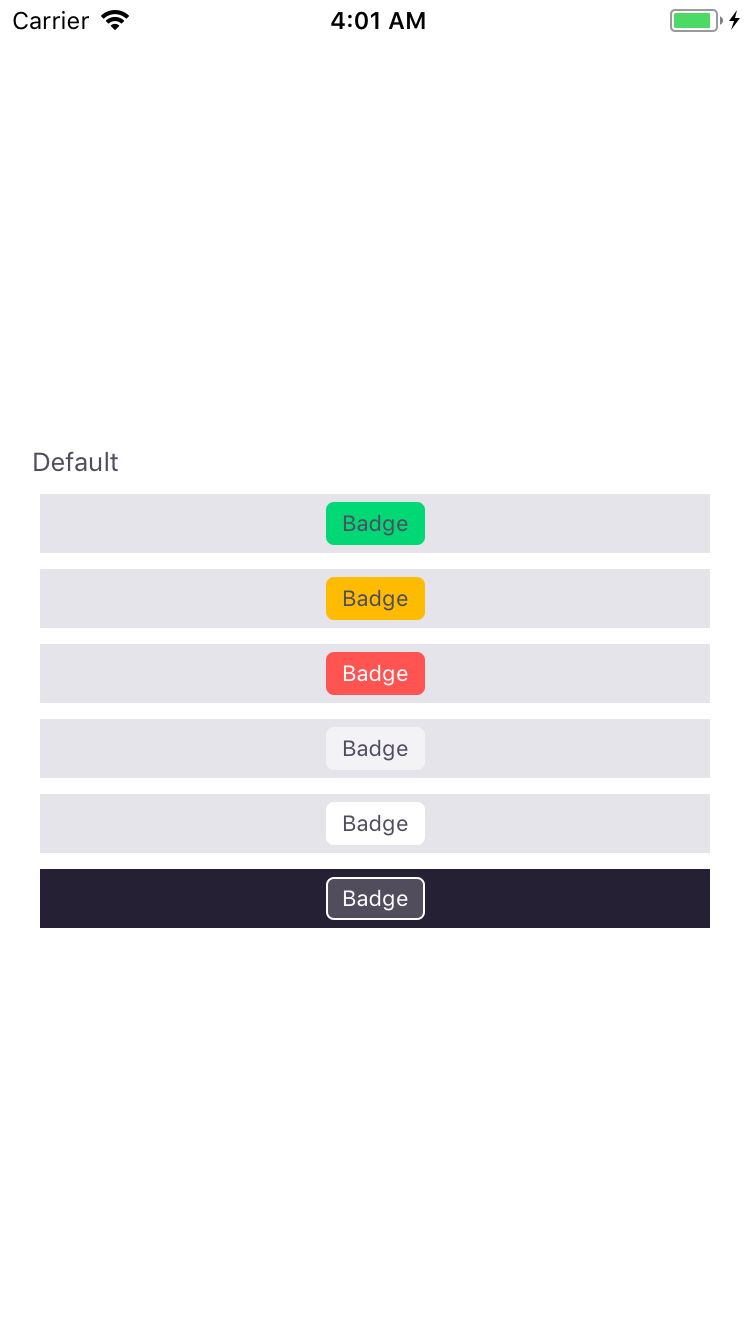
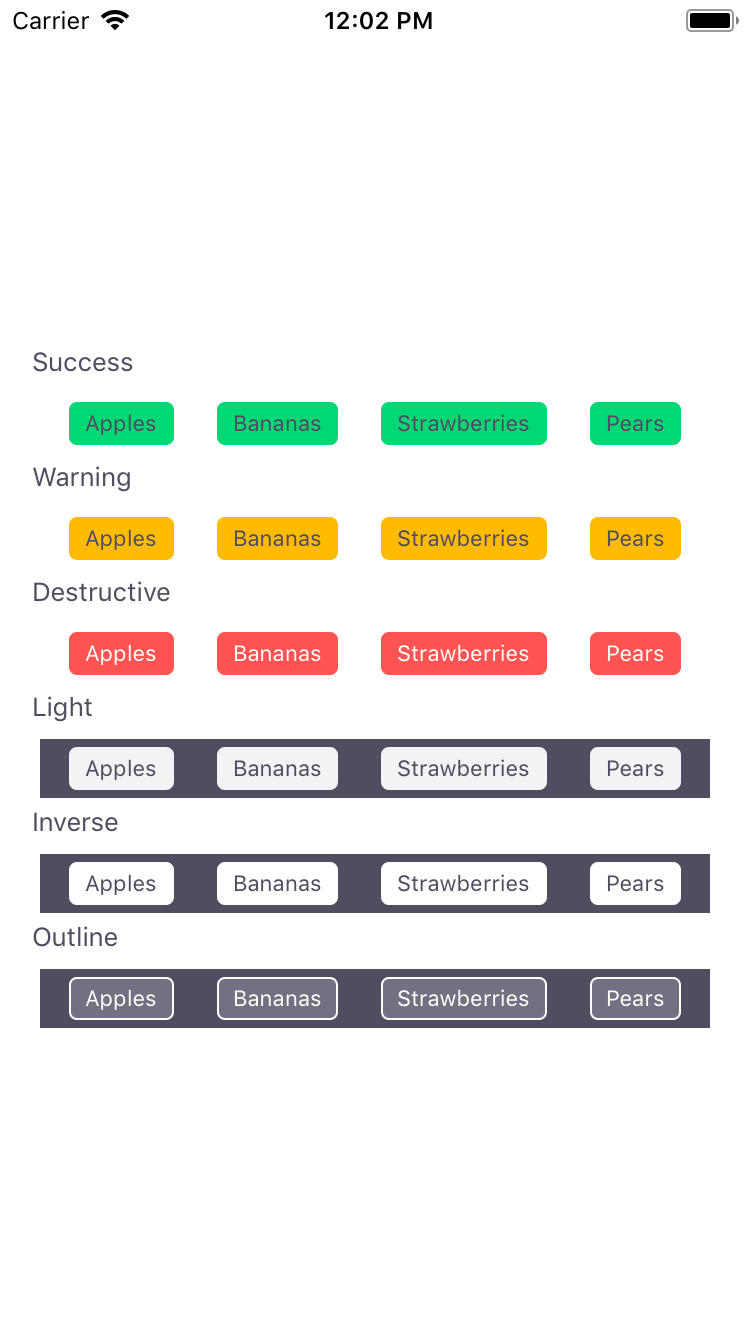
[no jira] Rename left/right in native badge to start/end

diff --git a/native/packages/react-native-bpk-component-badge/stories.js b/native/packages/react-native-bpk-component-badge/stories.js
@@ -22,11 +22,9 @@ import React from 'react';
 import { storiesOf } from '@storybook/react-native';
 import { View, StyleSheet } from 'react-native';
 import {
-  colorGray900,
-  colorGray100,
+  colorGray50,
+  colorGray700,
   spacingSm,
-  spacingXxl,
-  spacingBase,
 } from 'bpk-tokens/tokens/base.react.native';
 
 import BpkBadge, { BADGE_TYPES, BADGE_DOCKED_TYPES } from './index';
@@ -38,30 +36,39 @@ const style = StyleSheet.create({
     flexWrap: 'wrap',
   },
   badgeWrapper: {
-    backgroundColor: colorGray100,
     alignSelf: 'stretch',
+    justifyContent: 'space-around',
     margin: spacingSm,
     paddingBottom: spacingSm,
   },
-  badge: {
-    maxWidth: spacingBase + spacingXxl,
-  },
   center: {
+    flexDirection: 'row',
     padding: spacingSm,
     alignItems: 'center',
   },
-  left: {
+  start: {
+    backgroundColor: colorGray50,
     alignItems: 'flex-start',
   },
-  right: {
+  end: {
+    backgroundColor: colorGray50,
     alignItems: 'flex-end',
   },
+  light: {
+    backgroundColor: colorGray700,
+  },
   outline: {
-    backgroundColor: colorGray900,
+    backgroundColor: colorGray700,
+  },
+  inverse: {
+    backgroundColor: colorGray700,
   },
 });
 
+const capitalise = input => input.charAt(0).toUpperCase() + input.slice(1);
+
 const generateBadgeStory = (
+  contents: Array<string>,
   config: { docked?: $Keys<typeof BADGE_DOCKED_TYPES> } = {},
 ) => {
   const badgeWrapperStyle = [style.badgeWrapper];
@@ -71,13 +78,19 @@ const generateBadgeStory = (
     badgeWrapperStyle.push(style.center);
   }
   const badges = Object.keys(BADGE_TYPES).map(i => (
-    <View style={[badgeWrapperStyle, style[i]]} key={i}>
-      <BpkBadge
-        style={style.badge}
-        message="Badge"
-        docked={config.docked}
-        type={i}
-      />
+    <View key={i}>
+      <StorySubheading>{capitalise(i)}</StorySubheading>
+      <View style={[badgeWrapperStyle, style[i]]}>
+        {contents.map(content => (
+          <BpkBadge
+            key={content}
+            message={content}
+            docked={config.docked}
+            type={i}
+            style={style.badge}
+          />
+        ))}
+      </View>
     </View>
   ));
 
@@ -87,19 +100,16 @@ const generateBadgeStory = (
 storiesOf('BpkBadge', module)
   .add('docs:default', () => (
     <View>
-      <StorySubheading>Default</StorySubheading>
-      {generateBadgeStory()}
+      {generateBadgeStory(['Apples', 'Bananas', 'Strawberries', 'Pears'])}
     </View>
   ))
-  .add('docs:docked-left', () => (
+  .add('docs:docked-start', () => (
     <View>
-      <StorySubheading>Docked on the left</StorySubheading>
-      {generateBadgeStory({ docked: BADGE_DOCKED_TYPES.left })}
+      {generateBadgeStory(['Advert'], { docked: BADGE_DOCKED_TYPES.start })}
     </View>
   ))
-  .add('docs:docked-right', () => (
+  .add('docs:docked-end', () => (
     <View>
-      <StorySubheading>Docked on the right</StorySubheading>
-      {generateBadgeStory({ docked: BADGE_DOCKED_TYPES.right })}
+      {generateBadgeStory(['Advert'], { docked: BADGE_DOCKED_TYPES.end })}
     </View>
   ));

diff --git a/packages/bpk-docs/src/pages/NativeBadgePage/NativeBadgePage.js b/packages/bpk-docs/src/pages/NativeBadgePage/NativeBadgePage.js
@@ -20,11 +20,11 @@ import React from 'react';
 import readme from 'react-native-bpk-component-badge/readme.md';
 
 import iosScreenshotDefault from 'react-native-bpk-component-badge/screenshots/ios/default.png';
-import iosScreenshotDockedLeft from 'react-native-bpk-component-badge/screenshots/ios/docked-left.png';
-import iosScreenshotDockedRight from 'react-native-bpk-component-badge/screenshots/ios/docked-right.png';
+import iosScreenshotDockedStart from 'react-native-bpk-component-badge/screenshots/ios/docked-start.png';
+import iosScreenshotDockedEnd from 'react-native-bpk-component-badge/screenshots/ios/docked-end.png';
 import androidScreenshotDefault from 'react-native-bpk-component-badge/screenshots/android/default.png';
-import androidScreenshotDockedLeft from 'react-native-bpk-component-badge/screenshots/android/docked-left.png';
-import androidScreenshotDockedRight from 'react-native-bpk-component-badge/screenshots/android/docked-right.png';
+import androidScreenshotDockedStart from 'react-native-bpk-component-badge/screenshots/android/docked-start.png';
+import androidScreenshotDockedEnd from 'react-native-bpk-component-badge/screenshots/android/docked-end.png';
 
 import Paragraph from './../../components/Paragraph';
 import DocsPageBuilder from './../../components/DocsPageBuilder';
@@ -53,45 +53,45 @@ const components = [
     ],
   },
   {
-    id: 'docked-left',
-    title: 'Docked Left',
+    id: 'docked-start',
+    title: 'Docked (start)',
     screenshots: [
       {
         title: 'iOS',
         width: 750,
         height: 1334,
-        src: `/${iosScreenshotDockedLeft}`,
-        altText: 'iOS Docked Left Badge Component',
+        src: `/${iosScreenshotDockedStart}`,
+        altText: 'iOS Docked (start) Badge Component',
         subText: '(iPhone 8 Simulator)',
       },
       {
         title: 'Android',
         width: 1080,
         height: 1920,
-        src: `/${androidScreenshotDockedLeft}`,
-        altText: 'Android Docked Left Badge Component',
+        src: `/${androidScreenshotDockedStart}`,
+        altText: 'Android Docked (start) Badge Component',
         subText: '(Google Pixel Emulator)',
       },
     ],
   },
   {
-    id: 'docked-right',
-    title: 'Docked Right',
+    id: 'docked-end',
+    title: 'Docked (end)',
     screenshots: [
       {
         title: 'iOS',
         width: 750,
         height: 1334,
-        src: `/${iosScreenshotDockedRight}`,
-        altText: 'iOS Docked Right Badge Component',
+        src: `/${iosScreenshotDockedEnd}`,
+        altText: 'iOS Docked (end) Badge Component',
         subText: '(iPhone 8 Simulator)',
       },
       {
         title: 'Android',
         width: 1080,
         height: 1920,
-        src: `/${androidScreenshotDockedRight}`,
-        altText: 'Android Docked Right Badge Component',
+        src: `/${androidScreenshotDockedEnd}`,
+        altText: 'Android Docked (end) Badge Component',
         subText: '(Google Pixel Emulator)',
       },
     ],

diff --git a/packages/bpk-docs/src/pages/BadgePage/BadgePage.js b/packages/bpk-docs/src/pages/BadgePage/BadgePage.js
@@ -136,18 +136,20 @@ const components = [
       <Paragraph>The light badge is a gray color as shown below.</Paragraph>,
     ],
     examples: [
-      <BpkBadge type={BADGE_TYPES.light} className={badgeClassName}>
-        Apples
-      </BpkBadge>,
-      <BpkBadge type={BADGE_TYPES.light} className={badgeClassName}>
-        Bananas
-      </BpkBadge>,
-      <BpkBadge type={BADGE_TYPES.light} className={badgeClassName}>
-        Strawberries
-      </BpkBadge>,
-      <BpkBadge type={BADGE_TYPES.light} className={badgeClassName}>
-        Pears
-      </BpkBadge>,
+      <BadgeLayout>
+        <BpkBadge type={BADGE_TYPES.light} className={badgeClassName}>
+          Apples
+        </BpkBadge>
+        <BpkBadge type={BADGE_TYPES.light} className={badgeClassName}>
+          Bananas
+        </BpkBadge>
+        <BpkBadge type={BADGE_TYPES.light} className={badgeClassName}>
+          Strawberries
+        </BpkBadge>
+        <BpkBadge type={BADGE_TYPES.light} className={badgeClassName}>
+          Pears
+        </BpkBadge>
+      </BadgeLayout>,
     ],
   },
   {

diff --git a/native/packages/react-native-bpk-component-badge/src/BpkBadge-test.common.js b/native/packages/react-native-bpk-component-badge/src/BpkBadge-test.common.js
@@ -49,16 +49,16 @@ const commonTests = () => {
       expect(tree).toMatchSnapshot();
     });
 
-    it('should render correctly docked to the left', () => {
+    it('should render correctly docked to the start', () => {
       const tree = renderer
-        .create(generateBadgeStory({ docked: BADGE_DOCKED_TYPES.left }))
+        .create(generateBadgeStory({ docked: BADGE_DOCKED_TYPES.start }))
         .toJSON();
       expect(tree).toMatchSnapshot();
     });
 
-    it('should render correctly docked to the right', () => {
+    it('should render correctly docked to the end', () => {
       const tree = renderer
-        .create(generateBadgeStory({ docked: BADGE_DOCKED_TYPES.right }))
+        .create(generateBadgeStory({ docked: BADGE_DOCKED_TYPES.end }))
         .toJSON();
       expect(tree).toMatchSnapshot();
     });

diff --git a/packages/bpk-component-badge/BadgeLayout.js b/packages/bpk-component-badge/BadgeLayout.js
@@ -25,13 +25,18 @@ import STYLES from './badge-layout.scss';
 
 const getClassName = cssModules(STYLES);
 
+const LIGHT_BADGES = [
+  BADGE_TYPES.light,
+  BADGE_TYPES.inverse,
+  BADGE_TYPES.outline,
+];
+
 const BadgeLayout = ({ docked, children }) => {
   const classNames = [getClassName('bpk-badge-layout__container')];
 
   if (
     docked ||
-    Children.toArray(children)[0].props.type === BADGE_TYPES.inverse ||
-    Children.toArray(children)[0].props.type === BADGE_TYPES.outline
+    LIGHT_BADGES.indexOf(Children.toArray(children)[0].props.type) !== -1
   ) {
     classNames.push(getClassName('bpk-badge-layout__container--light'));
   }

diff --git a/native/packages/react-native-bpk-component-badge/src/BpkBadge.js b/native/packages/react-native-bpk-component-badge/src/BpkBadge.js
@@ -108,8 +108,8 @@ export const BADGE_TYPES = {
 };
 
 export const BADGE_DOCKED_TYPES = {
-  left: 'left',
-  right: 'right',
+  start: 'start',
+  end: 'end',
 };
 
 export type Props = {
@@ -142,11 +142,11 @@ const BpkBadge = (props: Props) => {
   viewStyle.push(viewStyleMap[type]);
   textStyle.push(textStyleMap[type]);
 
-  if (docked === BADGE_DOCKED_TYPES.left) {
+  if (docked === BADGE_DOCKED_TYPES.start) {
     viewStyle.push(styles.borderLeft);
   }
 
-  if (docked === BADGE_DOCKED_TYPES.right) {
+  if (docked === BADGE_DOCKED_TYPES.end) {
     viewStyle.push(styles.borderRight);
   }
 

diff --git a/native/packages/react-native-bpk-component-badge/readme.md b/native/packages/react-native-bpk-component-badge/readme.md
@@ -13,7 +13,7 @@ npm install react-native-bpk-component-badge --save-dev
 ```js
 import React, { Component } from 'react';
 import { View, StyleSheet } from 'react-native';
-import BpkBadge from 'react-native-bpk-component-badge';
+import BpkBadge, { BADGE_TYPES, BADGE_DOCKED_TYPES } from 'react-native-bpk-component-badge';
 import { spacingBase } from 'bpk-tokens/tokens/base.react.native';
 
 const styles = StyleSheet.create({
@@ -28,18 +28,15 @@ export default class App extends Component {
   render() {
     return (
       <View style={styles.container}>
-        <BpkBadge message="Badge" type="success" />
-        <BpkBadge message="Badge" type="warning" />
-        <BpkBadge message="Badge" type="destructive" />
-        <BpkBadge message="Badge" type="inverse" />
-        <BpkBadge message="Badge" type="light" />
-        <BpkBadge message="Badge" type="outline" />
-        <BpkBadge message="Badge" type="success" />
-        <BpkBadge message="Badge" docked="left" type="warning" />
-        <BpkBadge message="Badge" docked="right" type="destructive" />
-        <BpkBadge message="Badge" type="inverse" />
-        <BpkBadge message="Badge" docked="left" type="light" />
-        <BpkBadge message="Badge" docked="right" type="outline" />
+        <BpkBadge message="Badge" type={BADGE_TYPES.success} />
+        <BpkBadge message="Badge" type={BADGE_TYPES.warning} />
+        <BpkBadge message="Badge" type={BADGE_TYPES.destructive} />
+        <BpkBadge message="Badge" type={BADGE_TYPES.inverse} />
+        <BpkBadge message="Badge" type={BADGE_TYPES.light} />
+        <BpkBadge message="Badge" type={BADGE_TYPES.outline} />
+        <BpkBadge message="Badge" type={BADGE_TYPES.success} />
+        <BpkBadge message="Badge" docked={BADGE_DOCKED_TYPES.start} type={BADGE_TYPES.warning} />
+        <BpkBadge message="Badge" docked={BADGE_DOCKED_TYPES.end} type={BADGE_TYPES.destructive} />
       </View >
     );
   }
@@ -48,7 +45,7 @@ export default class App extends Component {
 ## Props
 
 | Property              | PropType                                                                 | Required | Default Value |
-| --------------------- | -------------------------------------------------------------------------| -------- | ------------- |
-| message               | string                                                                   | true     | -             |
-| docked                | oneOf('left', 'right')                                                   | false    | null          |
-| type                  | oneOf('success', 'warning', 'destructive', 'light', 'inverse', 'outline')| false    | warning       |
+| --------------------- | --------------------------------------------------------------------------| -------- | ------------- |
+| message               | string                                                                    | true     | -             |
+| docked                | oneOf('start', 'end')                                                     | false    | null          |
+| type                  | oneOf('success', 'warning', 'destructive', 'light', 'inverse', 'outline') | false    | warning       |
